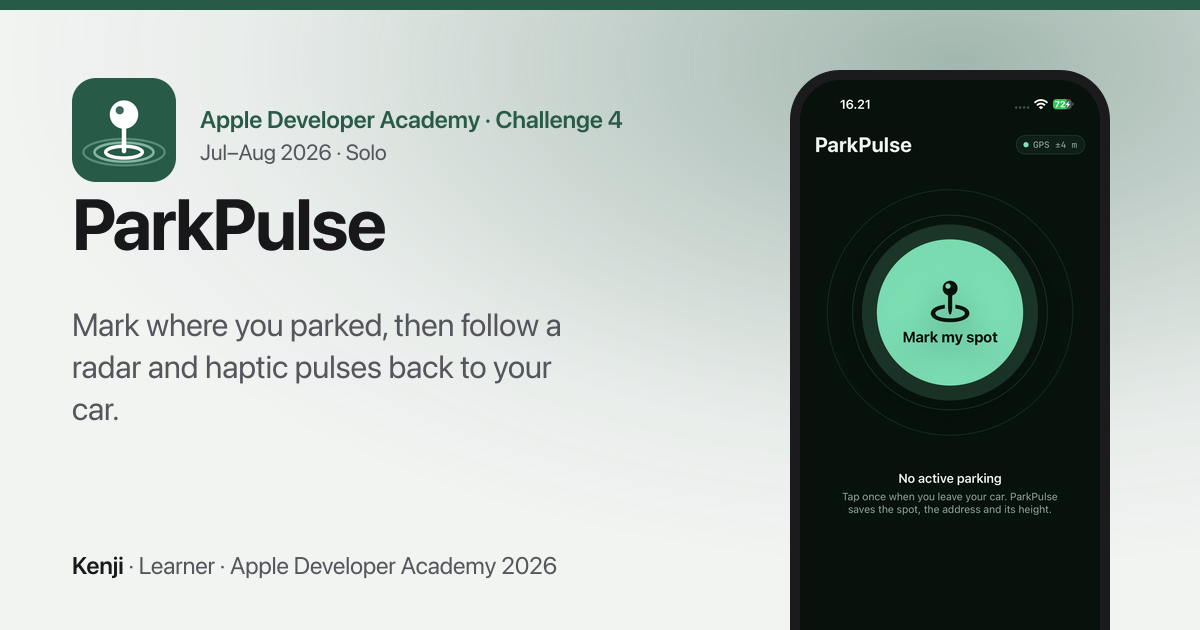
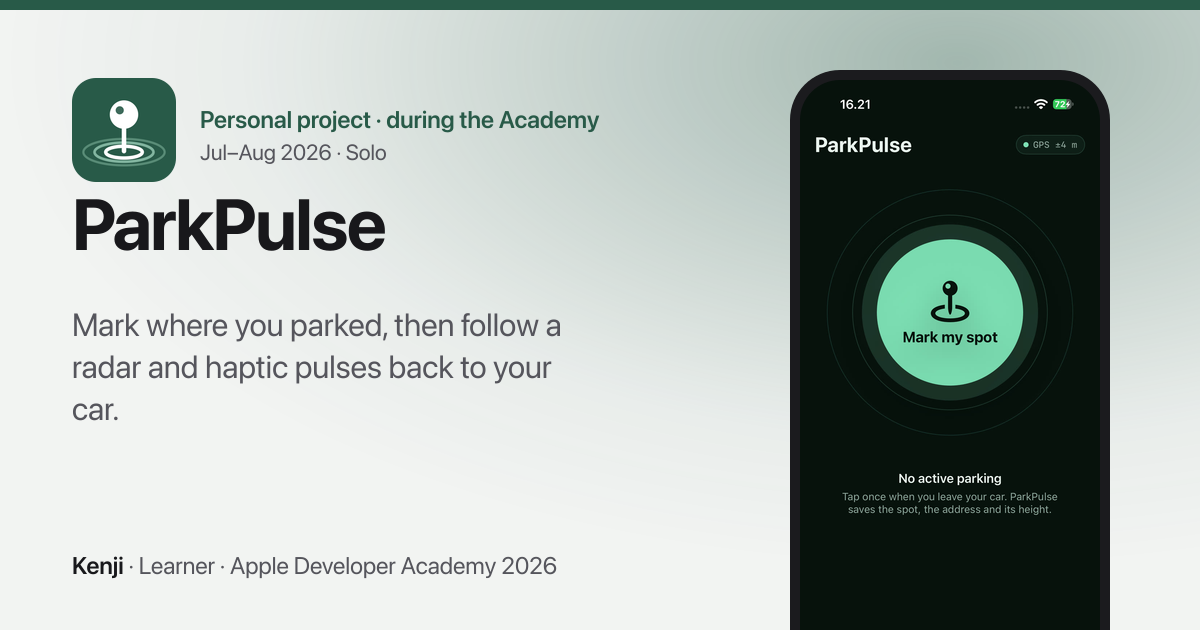
ParkPulse is a personal project during the Academy

Changed region(s): [[0.1542, 0.181, 0.5242, 0.2111]]

diff --git a/README.md b/README.md
@@ -1,4 +1,4 @@
-# Portfolio during Academy — Apple Developer Academy 2026
+# Portfolio during Academy - Apple Developer Academy 2026
 
 Apps I built as a learner at Apple Developer Academy in 2026: case studies with screenshots, my role in each team, and honest limitations.
 

diff --git a/src/content/projects/parkpulse.md b/src/content/projects/parkpulse.md
@@ -5,7 +5,7 @@ kind: ios-app
 order: 5
 period: Jul–Aug 2026
 date: 2026-07
-phase: Apple Developer Academy · Challenge 4
+phase: Personal project · during the Academy
 team: Solo
 role: Design and development
 platform: iPhone & iPad · iOS 26.5+
